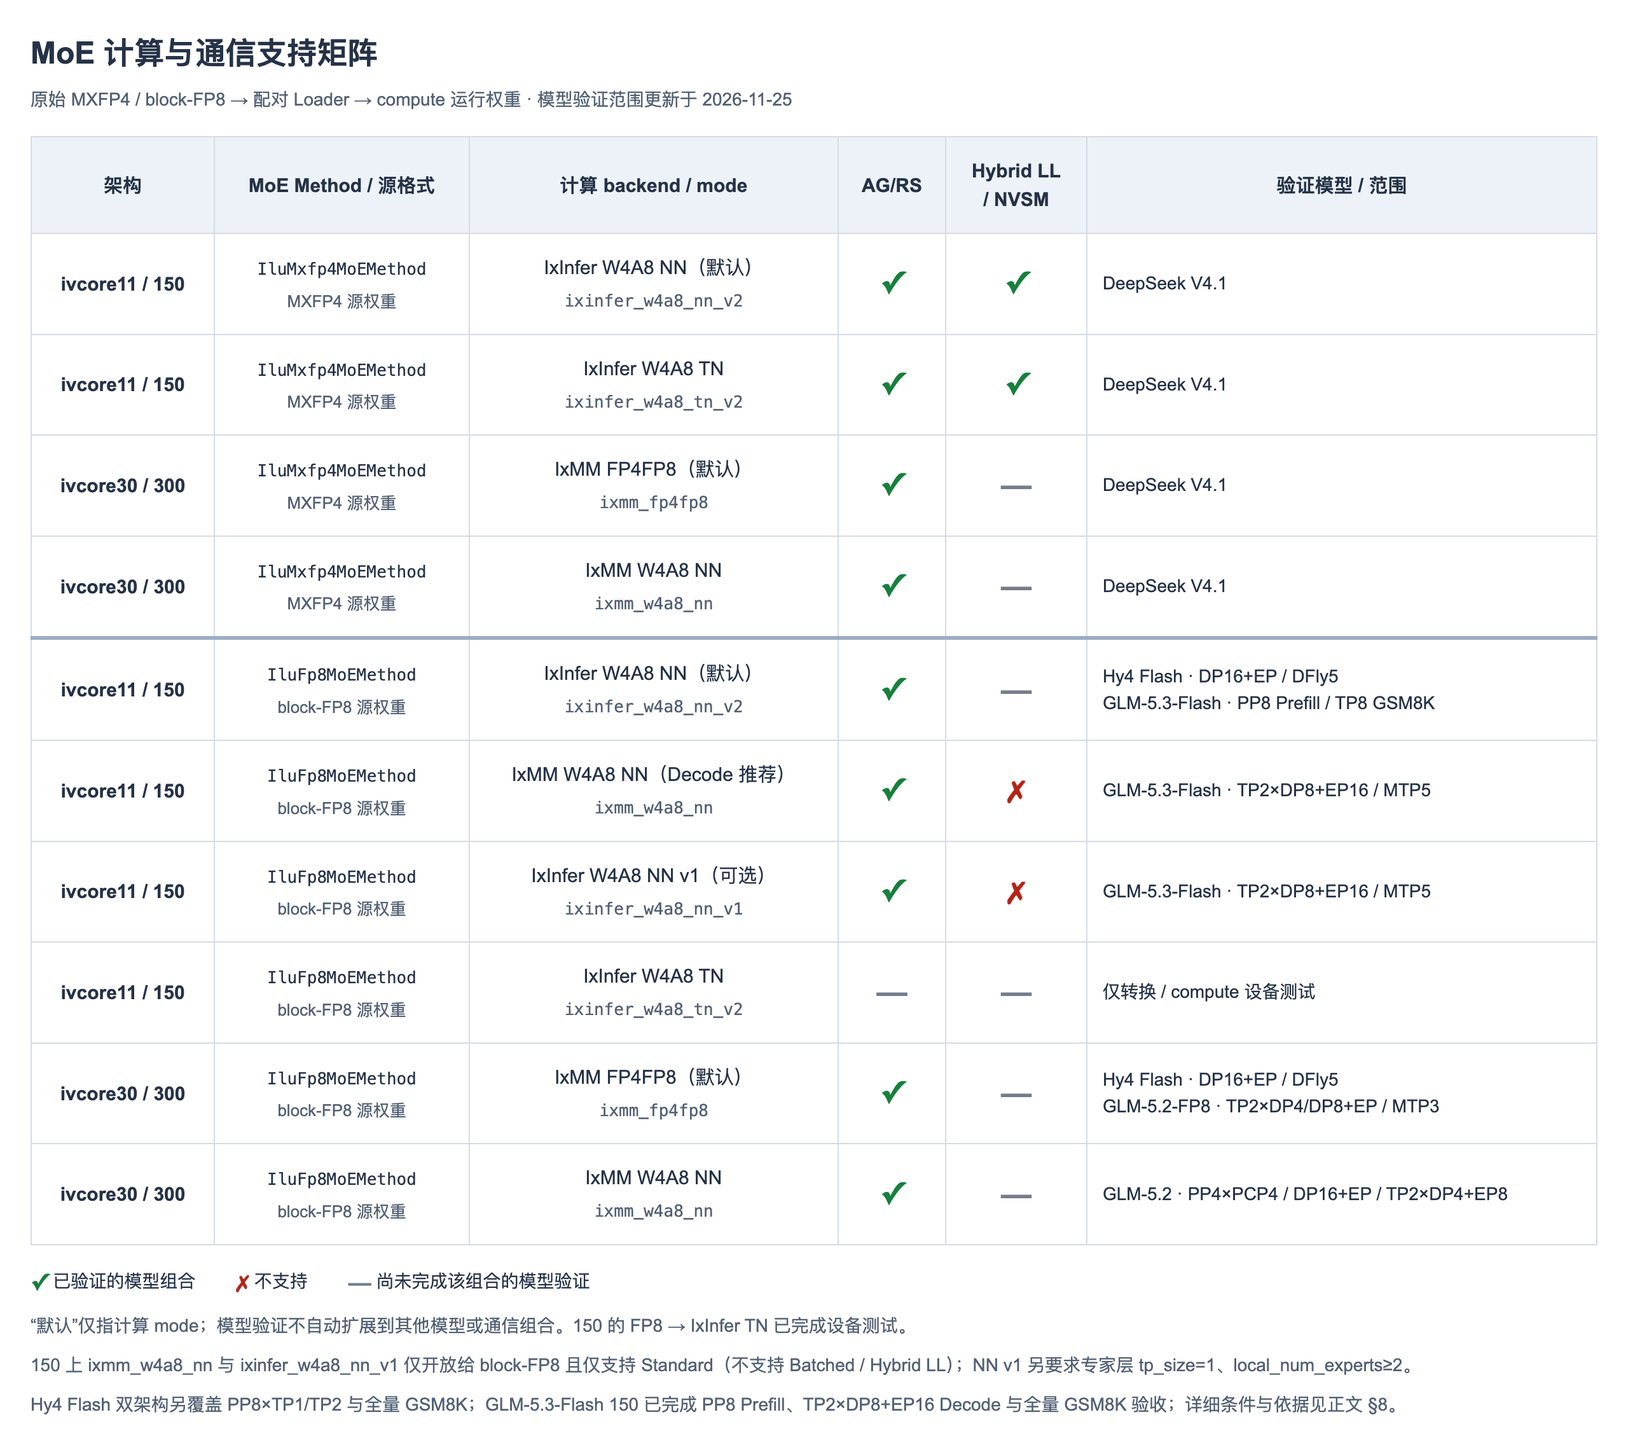
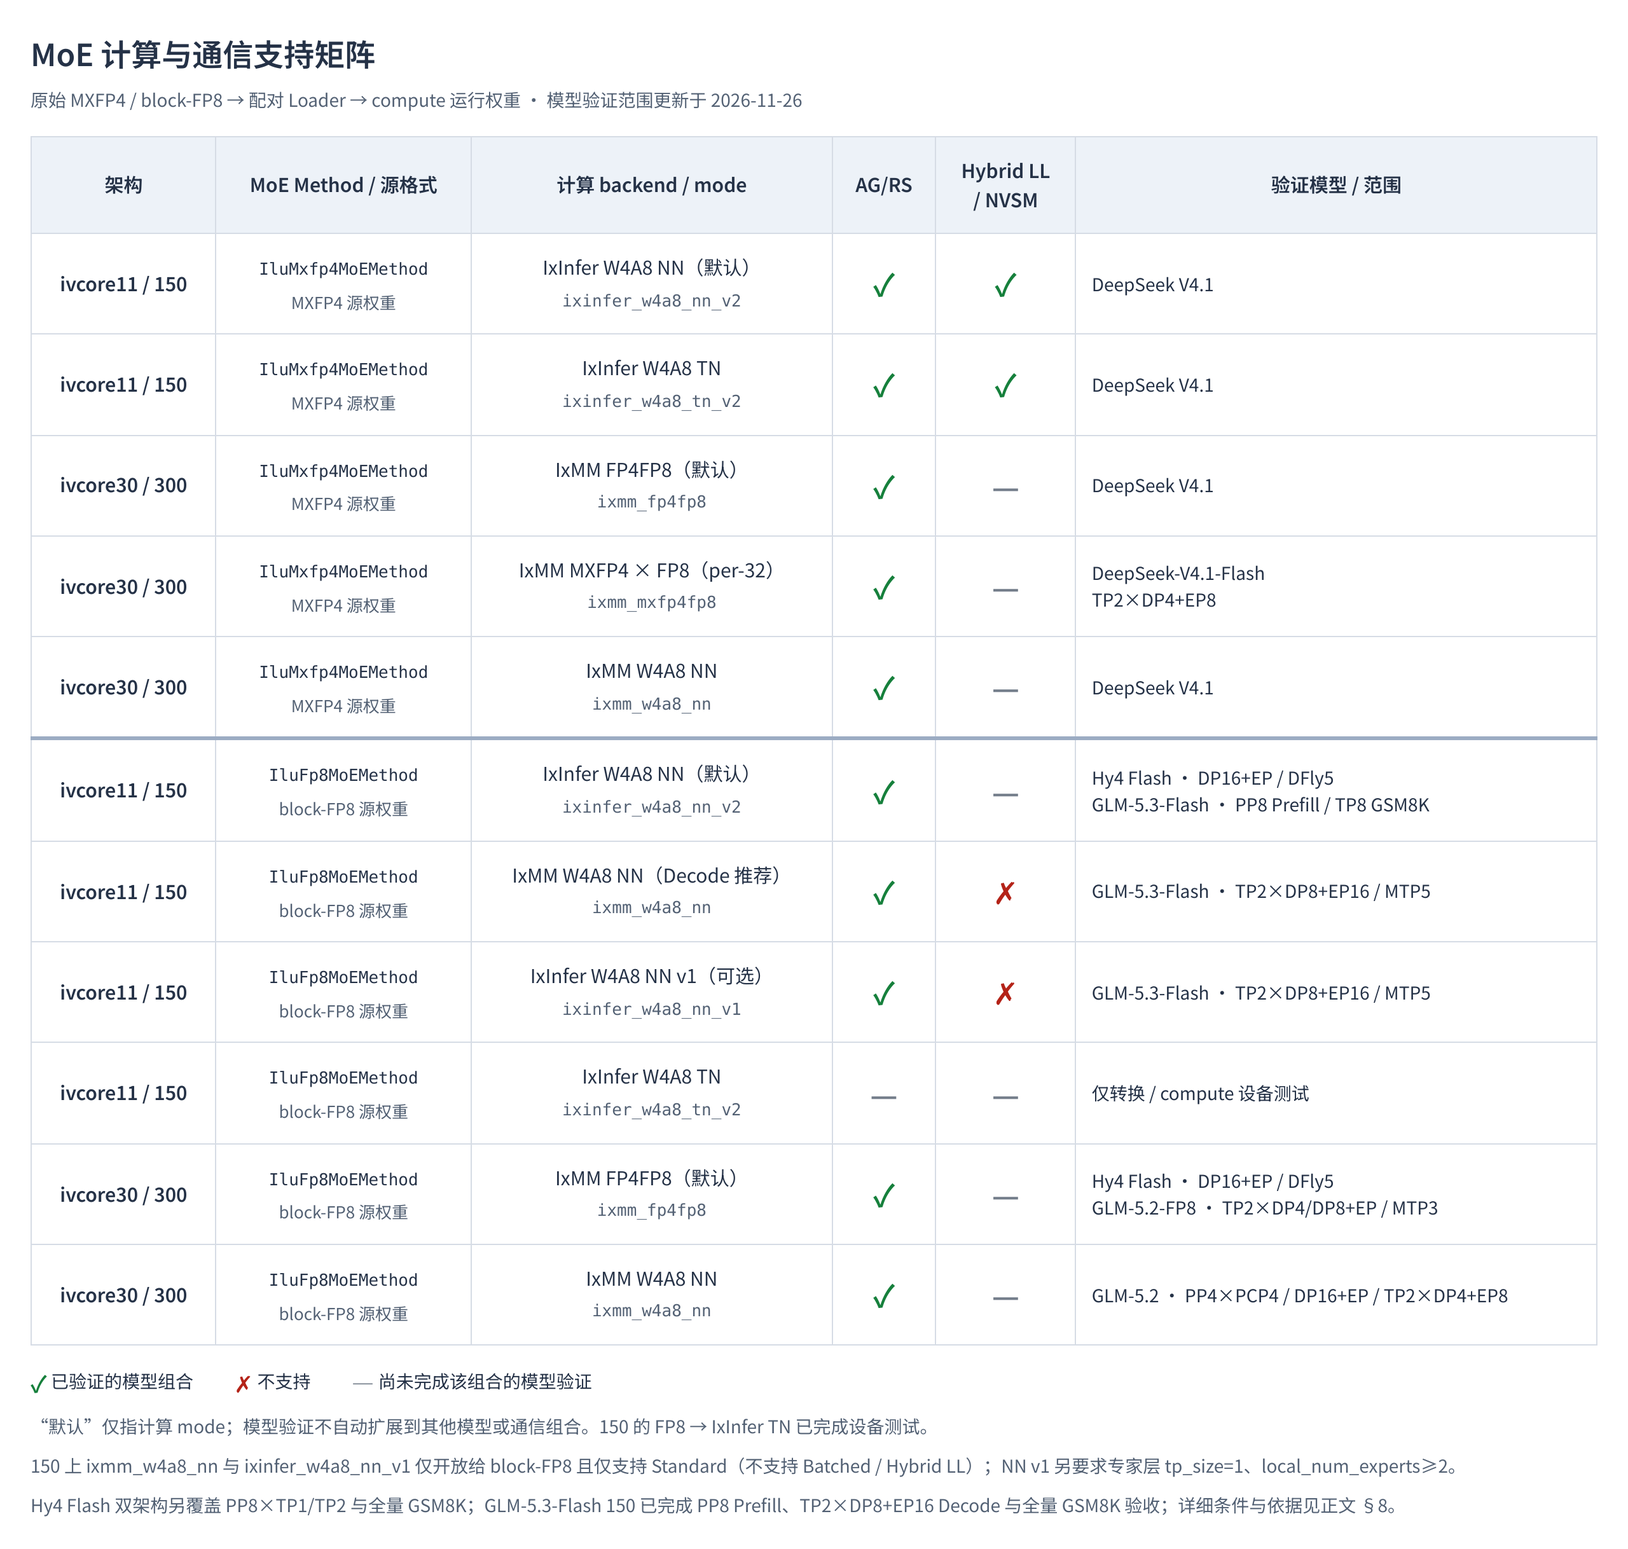
Preserve per-32 MXFP4 scales in ivcore30 MoE GEMMs
Add the ixmm_mxfp4fp8 compute mode for routed experts. Use ixformer's
public packing and grouped GEMM interfaces to preserve each E2M1
weight and its original per-32 UE8M0 scale. Reject the reserved UE8M0
NaN encoding when finalizing expert weights.

Request the ixmm backend explicitly for both expert projections.
Verify that a Torch backend preference does not override the selected
MoE mode when the native ixmm backend is available.

Check TP-sharded W13 and W2 against independently decoded checkpoint
values in both GEMM modes. Exercise Standard routing and TopK weighting
and check valid Batched rows in a caller-provided output buffer.

Document the configuration, the weight format difference from
ixmm_fp4fp8, and the verified DeepSeek-V4.1-Flash AG/RS topology.

diff --git a/docs/design/images/moe-support-matrix.html b/docs/design/images/moe-support-matrix.html
@@ -33,7 +33,7 @@
 <body>
   <main>
     <h1>MoE 计算与通信支持矩阵</h1>
-    <p class="intro">原始 MXFP4 / block-FP8 → 配对 Loader → compute 运行权重 · 模型验证范围更新于 2026-11-25</p>
+    <p class="intro">原始 MXFP4 / block-FP8 → 配对 Loader → compute 运行权重 · 模型验证范围更新于 2026-11-26</p>
     <div class="table-container">
       <table aria-label="MoE 计算与通信支持矩阵">
         <thead><tr><th scope="col">架构</th><th scope="col">MoE Method / 源格式</th><th scope="col">计算 backend / mode</th><th scope="col">AG/RS</th><th scope="col">Hybrid LL<br>/ NVSM</th><th scope="col">验证模型 / 范围</th></tr></thead>
@@ -41,6 +41,7 @@
 <tr><th scope="row">ivcore11 / 150</th><td><code>IluMxfp4MoEMethod</code><span class="source">MXFP4 源权重</span></td><td>IxInfer W4A8 NN（默认）<code class="mode">ixinfer_w4a8_nn_v2</code></td><td><span class="status yes" aria-label="已验证模型组合">✓</span></td><td><span class="status yes" aria-label="已验证模型组合">✓</span></td><td class="models">DeepSeek V4.1</td></tr>
 <tr><th scope="row">ivcore11 / 150</th><td><code>IluMxfp4MoEMethod</code><span class="source">MXFP4 源权重</span></td><td>IxInfer W4A8 TN<code class="mode">ixinfer_w4a8_tn_v2</code></td><td><span class="status yes" aria-label="已验证模型组合">✓</span></td><td><span class="status yes" aria-label="已验证模型组合">✓</span></td><td class="models">DeepSeek V4.1</td></tr>
 <tr><th scope="row">ivcore30 / 300</th><td><code>IluMxfp4MoEMethod</code><span class="source">MXFP4 源权重</span></td><td>IxMM FP4FP8（默认）<code class="mode">ixmm_fp4fp8</code></td><td><span class="status yes" aria-label="已验证模型组合">✓</span></td><td><span class="status unknown" aria-label="未完成模型验证">—</span></td><td class="models">DeepSeek V4.1</td></tr>
+<tr><th scope="row">ivcore30 / 300</th><td><code>IluMxfp4MoEMethod</code><span class="source">MXFP4 源权重</span></td><td>IxMM MXFP4 × FP8（per-32）<code class="mode">ixmm_mxfp4fp8</code></td><td><span class="status yes" aria-label="已验证模型组合">✓</span></td><td><span class="status unknown" aria-label="未完成模型验证">—</span></td><td class="models">DeepSeek-V4.1-Flash<br>TP2×DP4+EP8</td></tr>
 <tr><th scope="row">ivcore30 / 300</th><td><code>IluMxfp4MoEMethod</code><span class="source">MXFP4 源权重</span></td><td>IxMM W4A8 NN<code class="mode">ixmm_w4a8_nn</code></td><td><span class="status yes" aria-label="已验证模型组合">✓</span></td><td><span class="status unknown" aria-label="未完成模型验证">—</span></td><td class="models">DeepSeek V4.1</td></tr>
 <tr class="section-start"><th scope="row">ivcore11 / 150</th><td><code>IluFp8MoEMethod</code><span class="source">block-FP8 源权重</span></td><td>IxInfer W4A8 NN（默认）<code class="mode">ixinfer_w4a8_nn_v2</code></td><td><span class="status yes" aria-label="已验证模型组合">✓</span></td><td><span class="status unknown" aria-label="未完成模型验证">—</span></td><td class="models">Hy4 Flash · DP16+EP / DFly5<br>GLM-5.3-Flash · PP8 Prefill / TP8 GSM8K</td></tr>
 <tr><th scope="row">ivcore11 / 150</th><td><code>IluFp8MoEMethod</code><span class="source">block-FP8 源权重</span></td><td>IxMM W4A8 NN（Decode 推荐）<code class="mode">ixmm_w4a8_nn</code></td><td><span class="status yes" aria-label="已验证模型组合">✓</span></td><td><span class="status no" aria-label="不支持">✗</span></td><td class="models">GLM-5.3-Flash · TP2×DP8+EP16 / MTP5</td></tr>

diff --git a/tests/model_executor/layers/quantization/test_ilu_mxfp4_loader.py b/tests/model_executor/layers/quantization/test_ilu_mxfp4_loader.py
@@ -7,11 +7,17 @@ from pathlib import Path
 import pytest
 import torch
 
+from tests.conftest import requires_corex30
 from tests.mxfp4_reference import mxfp4_channel_int4, pack_ixinfer
 from vllm_iluvatar.ilu_util.arch import cuda_arch
 from vllm_iluvatar.model_executor.layers.fused_moe.experts.ilu_compute_backend import (
+    MoEComputeConfig,
     get_moe_backend,
+    make_moe_compute,
     select_moe_backend,
+)
+from vllm_iluvatar.model_executor.layers.quantization.backends.fp4.mxfp4_moe import (
+    select_mxfp4_compute,
 )
 from vllm_iluvatar.model_executor.layers.quantization.common.mxfp4_loader import (
     Mxfp4LoadSpec,
@@ -121,6 +127,177 @@ def loader_for(layer, backend, layout, device="cpu", tp=1, rank=0):
 
         loader.convert_shard = reference_convert
     return loader
+
+
+@requires_corex30
+def test_per32_mxfp4_routed_expert_gemm():
+    selection = select_mxfp4_compute("ivcore30", "ixmm_mxfp4fp8")
+    compute = make_moe_compute(MoEComputeConfig(512, 256, 2, 6, limit=7.0), selection)
+    layer = ExpertLayer()
+    loader = loader_for(layer, selection.name, selection.layout, "cuda", tp=2, rank=1)
+    generator = torch.Generator().manual_seed(43)
+    expected = {}
+    # Each group contains -1, 0, 1, 2 and one outlier of 3 in E2M1.
+    codes = torch.tensor([10, 0, 2, 4] * 7 + [10, 0, 2, 5], dtype=torch.uint8)
+    magnitude = torch.tensor([0, 0.5, 1, 1.5, 2, 3, 4, 6])
+    for expert in (4, 5):
+        for shard in ("w1", "w3", "w2"):
+            offsets = torch.randint(32, (512, 16, 1), generator=generator)
+            nibble = codes[(torch.arange(32) + offsets) % 32].flatten(1)
+            packed = nibble[:, ::2] | (nibble[:, 1::2] << 4)
+            scale = torch.randint(
+                123, 131, (512, 16), dtype=torch.uint8, generator=generator
+            )
+            assert deliver(layer, shard, expert, scale, scale=True)
+            assert deliver(layer, shard, expert, packed)
+            values = magnitude[(nibble & 7).long()] * torch.where(nibble < 8, 1, -1)
+            values *= torch.exp2(scale.float() - 127).repeat_interleave(32, dim=1)
+            expected[expert, shard] = values[:, 256:] if shard == "w2" else values[256:]
+    weights = loader.finalize()
+    compute.validate_weights(weights)
+
+    for prefix, k in (("w13", 512), ("w2", 256)):
+        for rows in (32, 96):
+            # One-hot inputs sample K across scale groups in both GEMM modes.
+            columns = torch.randperm(k, generator=generator)[:rows]
+            x = torch.eye(k)[columns].to(torch.float8_e4m3fn).cuda()
+            layout = torch.tensor(
+                [[0, rows // 2, 0], [rows // 2, rows, 1]],
+                dtype=torch.int32,
+                device="cuda",
+            )
+            out = compute.gemm(
+                weights, x, torch.ones(rows, device="cuda"), prefix, layout
+            )
+            for i, expert in enumerate((4, 5)):
+                reference = (
+                    expected[expert, "w2"]
+                    if prefix == "w2"
+                    else torch.cat((expected[expert, "w1"], expected[expert, "w3"]))
+                )
+                span = slice(i * rows // 2, (i + 1) * rows // 2)
+                torch.testing.assert_close(
+                    out[span].cpu().float(), reference.T[columns[span]], rtol=0, atol=0
+                )
+
+
+@pytest.fixture
+def per32_diagonal_experts():
+    selection = select_mxfp4_compute("ivcore30", "ixmm_mxfp4fp8")
+    compute = make_moe_compute(MoEComputeConfig(512, 256, 2, 6, limit=7.0), selection)
+    layer = ExpertLayer()
+    loader = loader_for(layer, selection.name, selection.layout, "cuda")
+    diag = torch.arange(256)
+    for expert in (4, 5):
+        for shard in ("w1", "w3", "w2"):
+            n, k = (512, 256) if shard == "w2" else (256, 512)
+            codes = torch.zeros((n, k), dtype=torch.uint8)
+            codes[diag, diag] = 2  # E2M1 +1
+            # Expert 5 doubles the up projection through its UE8M0 scale.
+            exponent = 128 if expert == 5 and shard == "w3" else 127
+            scale = torch.full((n, k // 32), exponent, dtype=torch.uint8)
+            assert deliver(layer, shard, expert, codes[:, ::2] | (codes[:, 1::2] << 4))
+            assert deliver(layer, shard, expert, scale, scale=True)
+    return compute, loader.finalize()
+
+
+@requires_corex30
+def test_per32_gemm_prefers_explicit_ixmm(per32_diagonal_experts, monkeypatch):
+    from ixformer.core import config
+    from ixformer.inference.backend_registry import registry
+
+    compute, weights = per32_diagonal_experts
+    op = "group_gemm_mxfp4_fp8"
+    monkeypatch.setattr(config, "IXFORMER_KERNEL_BACKEND", f"{op}:torch")
+    resolve = registry.resolve
+    assert resolve(op) == "torch"
+    selected = []
+
+    def record_backend(name, *args, **kwargs):
+        backend = resolve(name, *args, **kwargs)
+        if name == op:
+            selected.append(backend)
+        return backend
+
+    monkeypatch.setattr(registry, "resolve", record_backend)
+    x = torch.zeros((2, 256), dtype=torch.float8_e4m3fn, device="cuda")
+    layout = torch.tensor([[0, 1], [1, 2]], dtype=torch.int32, device="cuda")
+    compute.gemm(weights, x, torch.ones(2, device="cuda"), "w2", layout)
+    assert selected == ["ixmm"]
+
+
+@requires_corex30
+def test_per32_standard_routing_and_topk(per32_diagonal_experts):
+    compute, weights = per32_diagonal_experts
+    # One live channel per token makes both per-token FP8 quantizations exact
+    # up to BF16 rounding. The two experts compute silu(x)*x and twice that.
+    x = torch.eye(4, 512, dtype=torch.bfloat16, device="cuda")
+    x *= torch.tensor([1, -1, 2, -2], device="cuda")[:, None]
+    ids = torch.tensor(
+        [[4, 5], [5, 4], [4, 1], [1, 5]], device="cuda", dtype=torch.int32
+    )
+    scores = torch.tensor(
+        [[0.25, 0.75], [0.25, 0.75], [0.5, 0.5], [0.5, 0.5]], device="cuda"
+    )
+    expert_map = torch.tensor([-1, -1, -1, -1, 0, 1], device="cuda", dtype=torch.int32)
+    actual = compute.run_standard(
+        x,
+        weights,
+        scores,
+        ids,
+        expert_map,
+        workspace=compute.workspace_spec(ids.numel(), x.dtype).allocate(x.device),
+    )
+    gain = torch.tensor([1.75, 1.25, 0.5, 1.0], device="cuda")
+    expected = torch.nn.functional.silu(x.float()) * x * gain[:, None]
+    torch.testing.assert_close(actual.float(), expected, rtol=0.016, atol=0)
+
+
+@requires_corex30
+def test_per32_batched_valid_rows(per32_diagonal_experts):
+    compute, weights = per32_diagonal_experts
+    capacity = 4
+    x = torch.eye(2 * capacity, 512, dtype=torch.bfloat16, device="cuda").view(
+        2, capacity, 512
+    )
+    x[1].neg_()
+    counts = torch.tensor([3, 1], device="cuda", dtype=torch.int32)
+    output = torch.full_like(x, torch.nan)
+    actual = compute.run_batched(
+        x,
+        weights,
+        None,
+        counts,
+        output=output,
+        workspace=compute.workspace_spec(2 * capacity, x.dtype, batched=True).allocate(
+            x.device
+        ),
+    )
+    assert actual is output
+    for expert, valid_rows in enumerate((3, 1)):
+        rows = x[expert, :valid_rows].float()
+        expected = torch.nn.functional.silu(rows) * rows * (expert + 1)
+        torch.testing.assert_close(
+            output[expert, :valid_rows].float(), expected, rtol=0.016, atol=0
+        )
+
+
+@requires_corex30
+def test_per32_mxfp4_loader_rejects_reserved_scale():
+    layer = ExpertLayer()
+    loader = loader_for(layer, "ixmm_mxfp4fp8", "mxfp4fp8", "cuda")
+    for expert in (4, 5):
+        for shard in ("w1", "w3", "w2"):
+            n, k = (512, 256) if shard == "w2" else (256, 512)
+            scale = torch.full((n, k // 32), 127, dtype=torch.uint8)
+            if expert == 5 and shard == "w3":
+                scale[-1, -1] = 255
+            assert deliver(
+                layer, shard, expert, torch.zeros((n, k // 2), dtype=torch.uint8)
+            )
+            assert deliver(layer, shard, expert, scale, scale=True)
+    with pytest.raises(ValueError, match="non-finite"):
+        loader.finalize()
 
 
 @pytest.mark.parametrize(

diff --git a/tests/model_executor/layers/quantization/test_ilu_compute_config.py b/tests/model_executor/layers/quantization/test_ilu_compute_config.py
@@ -69,6 +69,7 @@ def test_explicit_fp8_rejects_ivcore11(monkeypatch):
         ("ivcore11", "ixinfer_w4a8_tn_v2", "ixinfer_w4a8_tn_v2"),
         ("ivcore30", "auto", "ixmm_fp4fp8"),
         ("ivcore30", "ixmm_fp4fp8", "ixmm_fp4fp8"),
+        ("ivcore30", "ixmm_mxfp4fp8", "ixmm_mxfp4fp8"),
         ("ivcore30", "ixmm_w4a8_nn", "ixmm_w4a8_nn"),
     ],
 )
@@ -98,6 +99,7 @@ def test_mxfp4_public_modes(monkeypatch, device, mode, expected):
     [
         ("ivcore11", "ixmm_w4a8_nn"),
         ("ivcore11", "ixmm_fp4fp8"),
+        ("ivcore11", "ixmm_mxfp4fp8"),
         ("ivcore30", "ixinfer_w4a8_tn_v2"),
         ("ivcore30", "ixinfer_w4a8_nn_v2"),
         ("ivcore11", "NN"),
@@ -151,6 +153,12 @@ def test_fp8_compute_modes(device, mode, backend, layout):
 
     selection = select_fp8_compute(device, mode)
     assert (selection.name, selection.layout) == (backend, layout)
+
+
+@pytest.mark.parametrize("mode", ["ixmm_mxfp4fp8"])
+def test_mxfp4_only_modes_reject_block_fp8(mode):
+    with pytest.raises(ValueError, match="Unsupported block-FP8 mode"):
+        ilu_compute.select_four_bit_expert_compute("ivcore30", mode, source="block-FP8")
 
 
 def test_bi150_nn_v1_only_accepts_block_fp8():

diff --git a/vllm_iluvatar/model_executor/layers/quantization/common/paired_moe_loader.py b/vllm_iluvatar/model_executor/layers/quantization/common/paired_moe_loader.py
@@ -128,7 +128,7 @@ class PairedMoEWeightLoader:
             offset = n if shard == "w3" else 0
             if self.weight_spec.layout == "TN":
                 target = target.narrow(0, offset, n)
-            elif self.weight_spec.scale_group_size == 256:
+            elif self.weight_spec.scale_group_size in (32, 256):
                 target = target.narrow(-1, offset, n)
             else:
                 target = target.narrow(-1, offset // 2, n // 2)
@@ -155,7 +155,11 @@ class PairedMoEWeightLoader:
                 self._layer.register_parameter(f"{group}_weight_scale", param)
         weights = MoEWeights.from_layer(self._layer, self.weight_spec)
         for scale in (weights.w13_weight_scale, weights.w2_weight_scale):
-            if not torch.isfinite(scale).all():
+            # UE8M0 block scales reserve byte 255 for NaN.
+            valid = (
+                scale != 255 if scale.dtype == torch.uint8 else torch.isfinite(scale)
+            )
+            if not valid.all():
                 self._failed = True
                 raise ValueError(f"Invalid or non-finite {self.source_name} weights")
         self._finalized = True

diff --git a/vllm_iluvatar/model_executor/layers/quantization/common/mxfp4_loader.py b/vllm_iluvatar/model_executor/layers/quantization/common/mxfp4_loader.py
@@ -194,6 +194,13 @@ class Mxfp4ToIxMMFP4FP8Loader(Mxfp4WeightLoader):
         )
 
 
+class Mxfp4ToIxMMMXFP4FP8Loader(Mxfp4WeightLoader):
+    def convert_shard(self, weight, scale, target, target_scale):
+        from ixformer.inference import functions as ops
+
+        ops.pack_mxfp4_for_ixmm(weight, scale, target, target_scale)
+
+
 def make_mxfp4_loader(weight_spec, load_spec):
     # Match complete semantic contracts, not just a shared TN/NN spelling.
     contracts = {
@@ -208,6 +215,16 @@ def make_mxfp4_loader(weight_spec, load_spec):
         "ixmm_w4a8_nn": (
             Mxfp4ToIxMMW4A8Loader,
             MoEWeightSpec("ixmm_w4a8_nn", "NN", torch.int8),
+        ),
+        "ixmm_mxfp4fp8": (
+            Mxfp4ToIxMMMXFP4FP8Loader,
+            MoEWeightSpec(
+                "ixmm_mxfp4fp8",
+                "mxfp4fp8",
+                torch.uint8,
+                torch.uint8,
+                scale_group_size=32,
+            ),
         ),
         "ixmm_fp4fp8": (
             Mxfp4ToIxMMFP4FP8Loader,

diff --git a/vllm_iluvatar/model_executor/layers/fused_moe/experts/ilu_ixmm_fp4fp8.py b/vllm_iluvatar/model_executor/layers/fused_moe/experts/ilu_ixmm_fp4fp8.py
@@ -161,3 +161,33 @@ class IxMMFP4FP8Backend(MoEComputeBackend):
             output.reshape(-1, output.shape[-1]),
         )
         return output
+
+
+@register_moe_backend
+class IxMMMXFP4FP8Backend(IxMMFP4FP8Backend):
+    """Reuse FP8 routing and clamped SwiGLU with original per-32 MX scales."""
+
+    name = "ixmm_mxfp4fp8"
+    priority = 11
+    supported_layouts = {"ivcore30": ("mxfp4fp8",)}
+    weight_specs = {
+        "mxfp4fp8": MoEWeightSpec(
+            name,
+            "mxfp4fp8",
+            torch.uint8,
+            torch.uint8,
+            scale_group_size=32,
+        )
+    }
+
+    def gemm(self, weights, x, scale, prefix, layout, output=None, mode=None):
+        return ops.group_gemm_mxfp4_fp8(
+            x,
+            scale,
+            getattr(weights, prefix + "_weight"),
+            getattr(weights, prefix + "_weight_scale"),
+            layout,
+            output,
+            backend="ixmm",
+            mode=mode,
+        )

diff --git a/vllm_iluvatar/model_executor/layers/quantization/backends/fp4/mxfp4_moe.py b/vllm_iluvatar/model_executor/layers/quantization/backends/fp4/mxfp4_moe.py
@@ -607,7 +607,7 @@ class IluMxfp4MoEMethod(Mxfp4MoEMethod):
     def get_fused_moe_quant_config(self, layer):
         if getattr(self, "selection", None) is None:
             return self._legacy_get_fused_moe_quant_config(layer)
-        if self.selection.name == "ixmm_fp4fp8":
+        if self.selection.name in ("ixmm_fp4fp8", "ixmm_mxfp4fp8"):
             return mxfp4_w4a8_moe_quant_config(
                 w1_scale=layer.w13_weight_scale,
                 w2_scale=layer.w2_weight_scale,

diff --git a/vllm_iluvatar/config/ilu_compute.py b/vllm_iluvatar/config/ilu_compute.py
@@ -62,6 +62,8 @@ def select_four_bit_expert_compute(arch, mode, *, source):
     )
 
     modes = _EXPERT_MODES.get(arch, {})
+    if arch == "ivcore30" and source == "MXFP4":
+        modes = {**modes, "ixmm_mxfp4fp8": ("ixmm_mxfp4fp8", "mxfp4fp8")}
     if arch == "ivcore11" and source == "block-FP8" and mode == "ixmm_w4a8_nn":
         return select_moe_backend(arch, name="ixmm_w4a8", layout="NN")
     if arch == "ivcore11" and source == "block-FP8" and mode == "ixinfer_w4a8_nn_v1":

diff --git a/vllm_iluvatar/model_executor/layers/fused_moe/experts/ilu_compute_backend.py b/vllm_iluvatar/model_executor/layers/fused_moe/experts/ilu_compute_backend.py
@@ -23,6 +23,8 @@ class MoEWeightSpec:
     alignment: int = 256
 
     def shapes(self, experts, n, k):
+        if self.scale_group_size == 32:
+            return (experts, k // 2, n), (experts, k // 32, n)
         if self.scale_group_size == 256:
             k = (k + 255) // 256 * 256
             return (experts, k // 2, n), (experts, k // 256, n)
